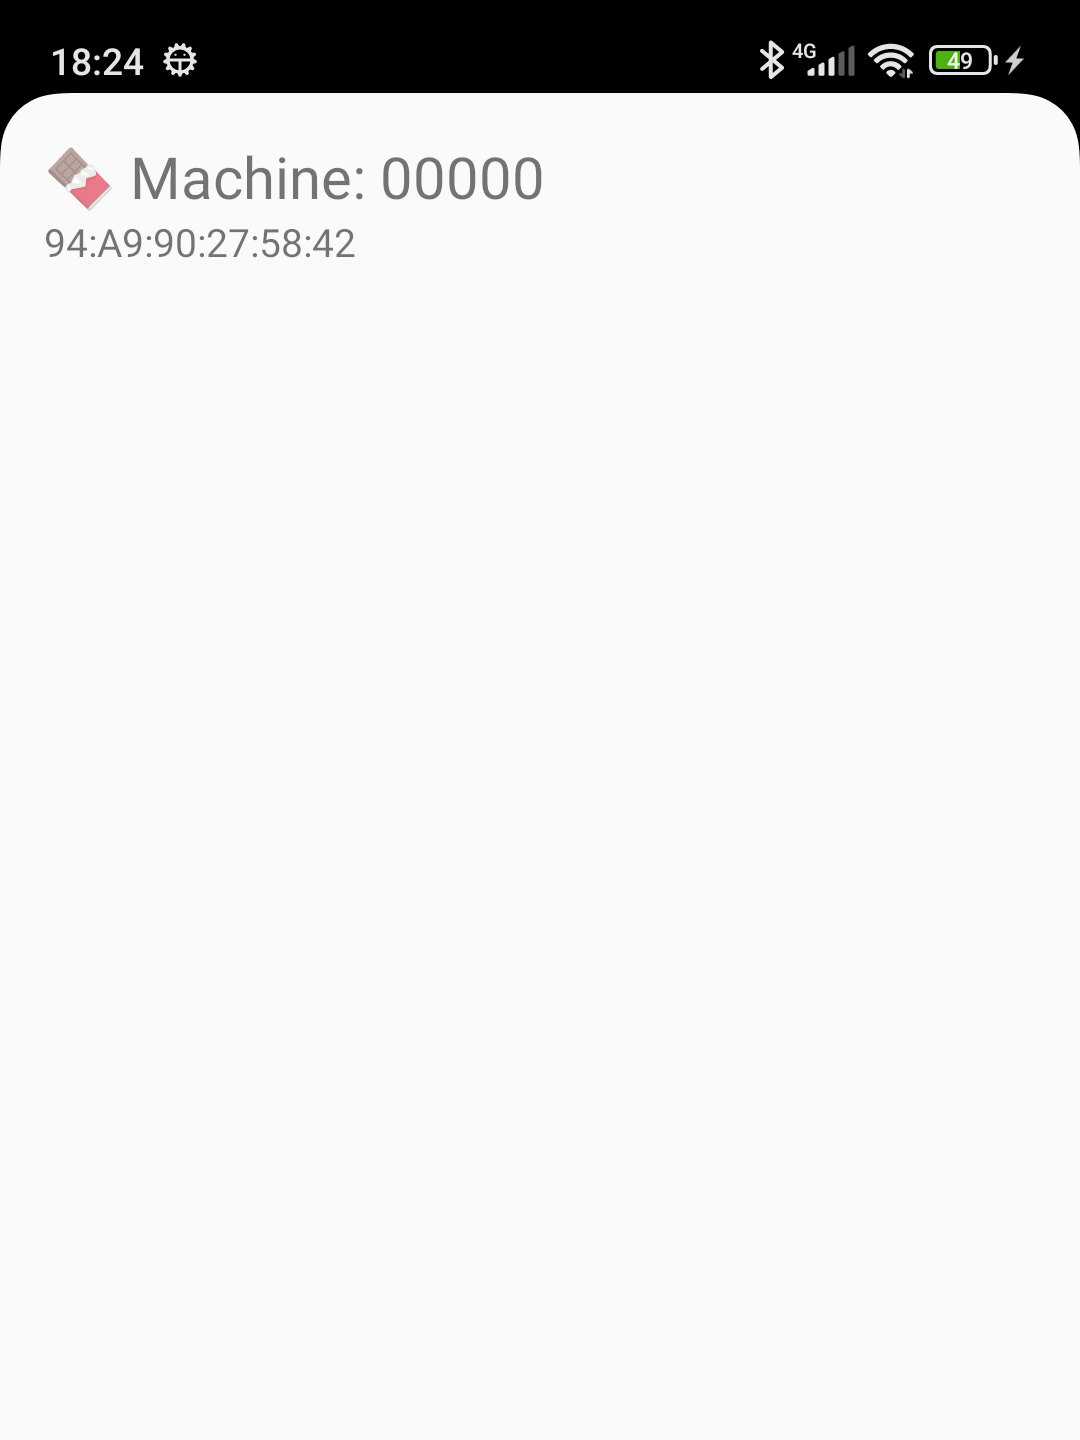
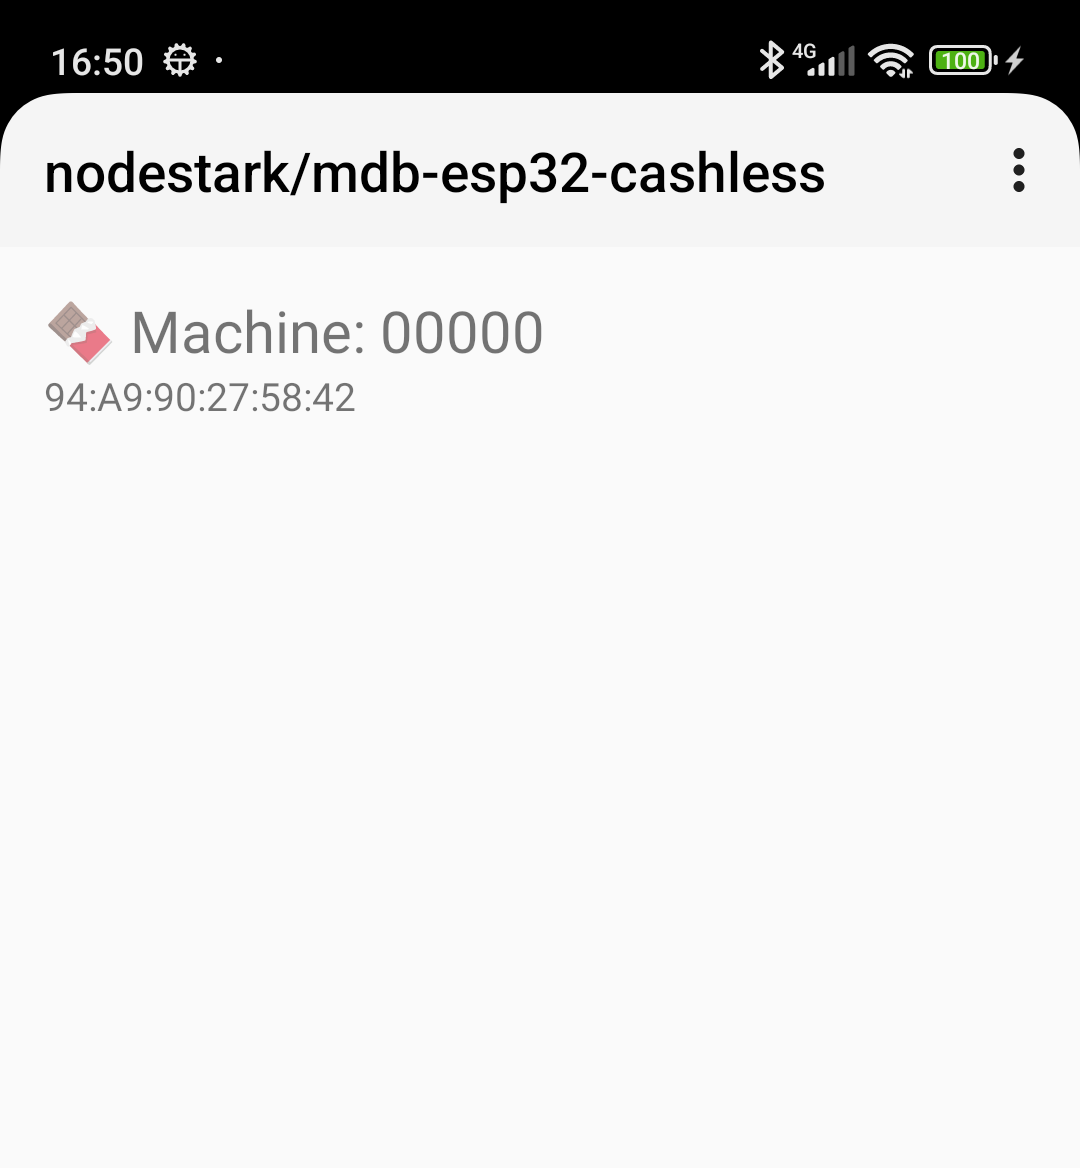
Refactoring

Changed region(s): [[0.0, 0.0308, 1.0, 0.1849], [0.0306, 0.2466, 0.5194, 0.3699], [0.9167, 0.1233, 0.9472, 0.1541]]

diff --git a/Android_ble/app/src/main/java/com/example/myapplication/VendFlowActivity.java b/Android_ble/app/src/main/java/com/example/myapplication/VendFlowActivity.java
@@ -18,52 +18,69 @@ import java.util.UUID;
 
 public class VendFlowActivity extends AppCompatActivity {
 
-    private BluetoothGattCharacteristic writeChar; // guardamos para usar depois
+    private static final UUID SERVICE_UUID = UUID.fromString("b2bbc642-46da-11ed-b878-0242ac120002");
+    private static final UUID WRITE_CHARACTERISTIC_UUID = UUID.fromString("c9af9c76-46de-11ed-b878-0242ac120002");
 
     private final BluetoothGattCallback gattCallback = new BluetoothGattCallback() {
 
+        private static final byte VEND_REQUEST = 'a';
+        private static final byte VEND_SUCCESS = 'b';
+        private static final byte VEND_FAILURE = 'c';
+        private static final byte SESSION_COMPLETE = 'd';
+        private static final byte SESSION_BEGIN_TODO = 'e';
+        private static final byte VEND_APPROVED_TODO = 'f';
+
         @Override
         public void onCharacteristicChanged(@NonNull BluetoothGatt gatt, @NonNull BluetoothGattCharacteristic characteristic, @NonNull byte[] value) {
+
             byte[] dados = characteristic.getValue();
 
-            if(dados[0] == 'a'){
-                // VEND_REQUEST
+            switch (dados[0]){
+                case VEND_REQUEST: {
 
-                short itemPrice = (short) ((dados[1] << 8) | dados[2]);
-                short itemNumber = (short) ((dados[3] << 8) | dados[4]);
-                short nonce = (short) ((dados[5] << 8) | dados[6]);
+                    short itemPrice = (short) ((dados[1] << 8) | dados[2]);
+                    short itemNumber = (short) ((dados[3] << 8) | dados[4]);
+                    short nonce = (short) ((dados[5] << 8) | dados[6]);
 
-                Log.d("MDB-", "🔹 VEND_REQUEST Item price: " + itemPrice + ", Item number: " + itemNumber);
+                    BluetoothGattService service = gatt.getService( SERVICE_UUID );
+                    BluetoothGattCharacteristic writeChar = service.getCharacteristic( WRITE_CHARACTERISTIC_UUID );
 
-//                BluetoothGattService service = gatt.getService(UUID.fromString("b2bbc642-46da-11ed-b878-0242ac120002"));
-//                BluetoothGattCharacteristic writeChar_ = service.getCharacteristic(UUID.fromString("c9af9c76-46de-11ed-b878-0242ac120002"));
+                    byte[] dados_ = new byte[]{VEND_APPROVED_TODO, 0x00, 0x00, 0x00, 0x00, 0x00, 0x00, 0x00, 0x00, 0x00};
+                    writeChar.setValue(dados_);
 
-                // Enviar dados
-                byte[] dados_ = new byte[]{'f', 0x00, 0x00, 0x00, 0x00, 0x00, 0x00, 0x00, 0x00, 0x00};
-                writeChar.setValue(dados_);
+                    gatt.writeCharacteristic(writeChar);
 
-                boolean ok = gatt.writeCharacteristic(writeChar);
+                    Log.d("MDB-", "🔹 VEND_REQUEST Item price: " + itemPrice + ", Item number: " + itemNumber);
+                }
+                    break;
+                case VEND_SUCCESS: {
 
-                Log.d("MDB-", "Escrevendo characteristic: " + ok);
-            } else if(dados[0] == 'b'){
-                // VEND_SUCCESS
+                    short itemPrice = (short) ((dados[1] << 8) | dados[2]);
+                    short itemNumber = (short) ((dados[3] << 8) | dados[4]);
+                    short nonce = (short) ((dados[5] << 8) | dados[6]);
 
-                short itemPrice = (short) ((dados[1] << 8) | dados[2]);
-                short itemNumber = (short) ((dados[3] << 8) | dados[4]);
-                short nonce = (short) ((dados[5] << 8) | dados[6]);
+                    Log.d("MDB-", "🔹 VEND_SUCCESS Item price: " + itemPrice + ", Item number: " + itemNumber);
+                }
+                    break;
+                case VEND_FAILURE:{
+                    short itemPrice = (short) ((dados[1] << 8) | dados[2]);
+                    short itemNumber = (short) ((dados[3] << 8) | dados[4]);
+                    short nonce = (short) ((dados[5] << 8) | dados[6]);
 
-                Log.d("MDB-", "🔹 VEND_SUCCESS Item price: " + itemPrice + ", Item number: " + itemNumber);
+                    Log.d("MDB-", "🔹 VEND_FAILURE Item price: " + itemPrice + ", Item number: " + itemNumber);
+                }
+                    break;
+                case SESSION_COMPLETE: {
 
-            } else if(dados[0] == 'd'){
-                // SESSION_COMPLETE
+                    short itemPrice = (short) ((dados[1] << 8) | dados[2]);
+                    short itemNumber = (short) ((dados[3] << 8) | dados[4]);
+                    short nonce = (short) ((dados[5] << 8) | dados[6]);
 
-                short itemPrice = (short) ((dados[1] << 8) | dados[2]);
-                short itemNumber = (short) ((dados[3] << 8) | dados[4]);
-                short nonce = (short) ((dados[5] << 8) | dados[6]);
+                    finish();
 
-                Log.d("MDB-", "🔹 SESSION_COMPLETE Item price: " + itemPrice + ", Item number: " + itemNumber);
-
-                finish();
+                    Log.d("MDB-", "🔹 SESSION_COMPLETE Item price: " + itemPrice + ", Item number: " + itemNumber);
+                }
+                    break;
             }
         }
 
@@ -82,8 +99,10 @@ public class VendFlowActivity extends AppCompatActivity {
         @Override
         public void onDescriptorWrite(BluetoothGatt gatt, BluetoothGattDescriptor descriptor, int status) {
 
-            // Enviar dados
-            byte[] dados = new byte[]{'e', 0x00, 0x00, 0x00, 0x00, 0x00, 0x00, 0x00, 0x00, 0x00};
+            BluetoothGattService service = gatt.getService( SERVICE_UUID );
+            BluetoothGattCharacteristic writeChar = service.getCharacteristic( WRITE_CHARACTERISTIC_UUID );
+
+            byte[] dados = new byte[]{SESSION_BEGIN_TODO, 0x00, 0x00, 0x00, 0x00, 0x00, 0x00, 0x00, 0x00, 0x00};
             writeChar.setValue(dados);
 
             boolean ok = gatt.writeCharacteristic(writeChar);
@@ -97,19 +116,16 @@ public class VendFlowActivity extends AppCompatActivity {
             if (status == BluetoothGatt.GATT_SUCCESS) {
                 Log.d("MDB-", "Serviços descobertos" );
 
-                // 🔍 Achar a characteristic que você quer
-                BluetoothGattService service = gatt.getService(UUID.fromString("b2bbc642-46da-11ed-b878-0242ac120002"));
+                BluetoothGattService service = gatt.getService( SERVICE_UUID );
 
                 if (service != null) {
-                    writeChar = service.getCharacteristic(UUID.fromString("c9af9c76-46de-11ed-b878-0242ac120002"));
+                    BluetoothGattCharacteristic writeChar = service.getCharacteristic( WRITE_CHARACTERISTIC_UUID );
 
                     if (writeChar != null) {
 
                         gatt.setCharacteristicNotification(writeChar, true);
 
-                        BluetoothGattDescriptor descriptor = writeChar.getDescriptor(
-                                UUID.fromString("00002902-0000-1000-8000-00805f9b34fb") // UUID padrão do Client Characteristic Configuration Descriptor
-                        );
+                        BluetoothGattDescriptor descriptor = writeChar.getDescriptor( UUID.fromString("00002902-0000-1000-8000-00805f9b34fb") /*Default client UUID*/ );
 
                         if (descriptor != null) {
                             descriptor.setValue(BluetoothGattDescriptor.ENABLE_NOTIFICATION_VALUE);
@@ -118,7 +134,7 @@ public class VendFlowActivity extends AppCompatActivity {
                     }
                 }
             } else {
-                Log.e("MDB-", "Falha ao descobrir serviços, status: " + status);
+                Log.d("MDB-", "Falha ao descobrir serviços, status: " + status);
             }
         }
 
@@ -137,7 +153,9 @@ public class VendFlowActivity extends AppCompatActivity {
 
         BluetoothDevice device = getIntent().getParcelableExtra("device");
 
-        Toast.makeText(getApplicationContext(), device.getName(), Toast.LENGTH_LONG).show();
+        runOnUiThread(() -> {
+            Toast.makeText(getApplicationContext(), "Machine: " + device.getName().substring(7), Toast.LENGTH_LONG).show();
+        });
 
         bluetoothGatt = device.connectGatt(getApplicationContext(), false, gattCallback);
     }

diff --git a/Android_ble/app/src/main/java/com/example/myapplication/MainActivity.java b/Android_ble/app/src/main/java/com/example/myapplication/MainActivity.java
@@ -10,7 +10,10 @@ import android.bluetooth.le.ScanResult;
 import android.content.Intent;
 import android.os.Bundle;
 import android.util.Log;
-
+import android.view.Menu;
+import android.view.MenuItem;
+import android.widget.Toast;
+import androidx.appcompat.widget.Toolbar;
 import androidx.activity.result.ActivityResultLauncher;
 import androidx.activity.result.contract.ActivityResultContracts;
 import androidx.appcompat.app.AppCompatActivity;
@@ -89,6 +92,28 @@ public class MainActivity extends AppCompatActivity {
         recyclerView.setLayoutManager(new LinearLayoutManager(this));
 
         recyclerView.setAdapter(adapter);
+
+        Toolbar toolbar = findViewById(R.id.toolbar);
+        setSupportActionBar( toolbar );
+    }
+
+    @Override
+    public boolean onCreateOptionsMenu(Menu menu) {
+
+        getMenuInflater().inflate(R.menu.menu_main, menu);
+
+        return true;
+    }
+
+    @Override
+    public boolean onOptionsItemSelected(MenuItem item) {
+
+        if (item.getItemId() == R.id.action_history) {
+            Toast.makeText(this, "TODO", Toast.LENGTH_SHORT).show();
+            return true;
+        }
+
+        return super.onOptionsItemSelected(item);
     }
 
     @Override
